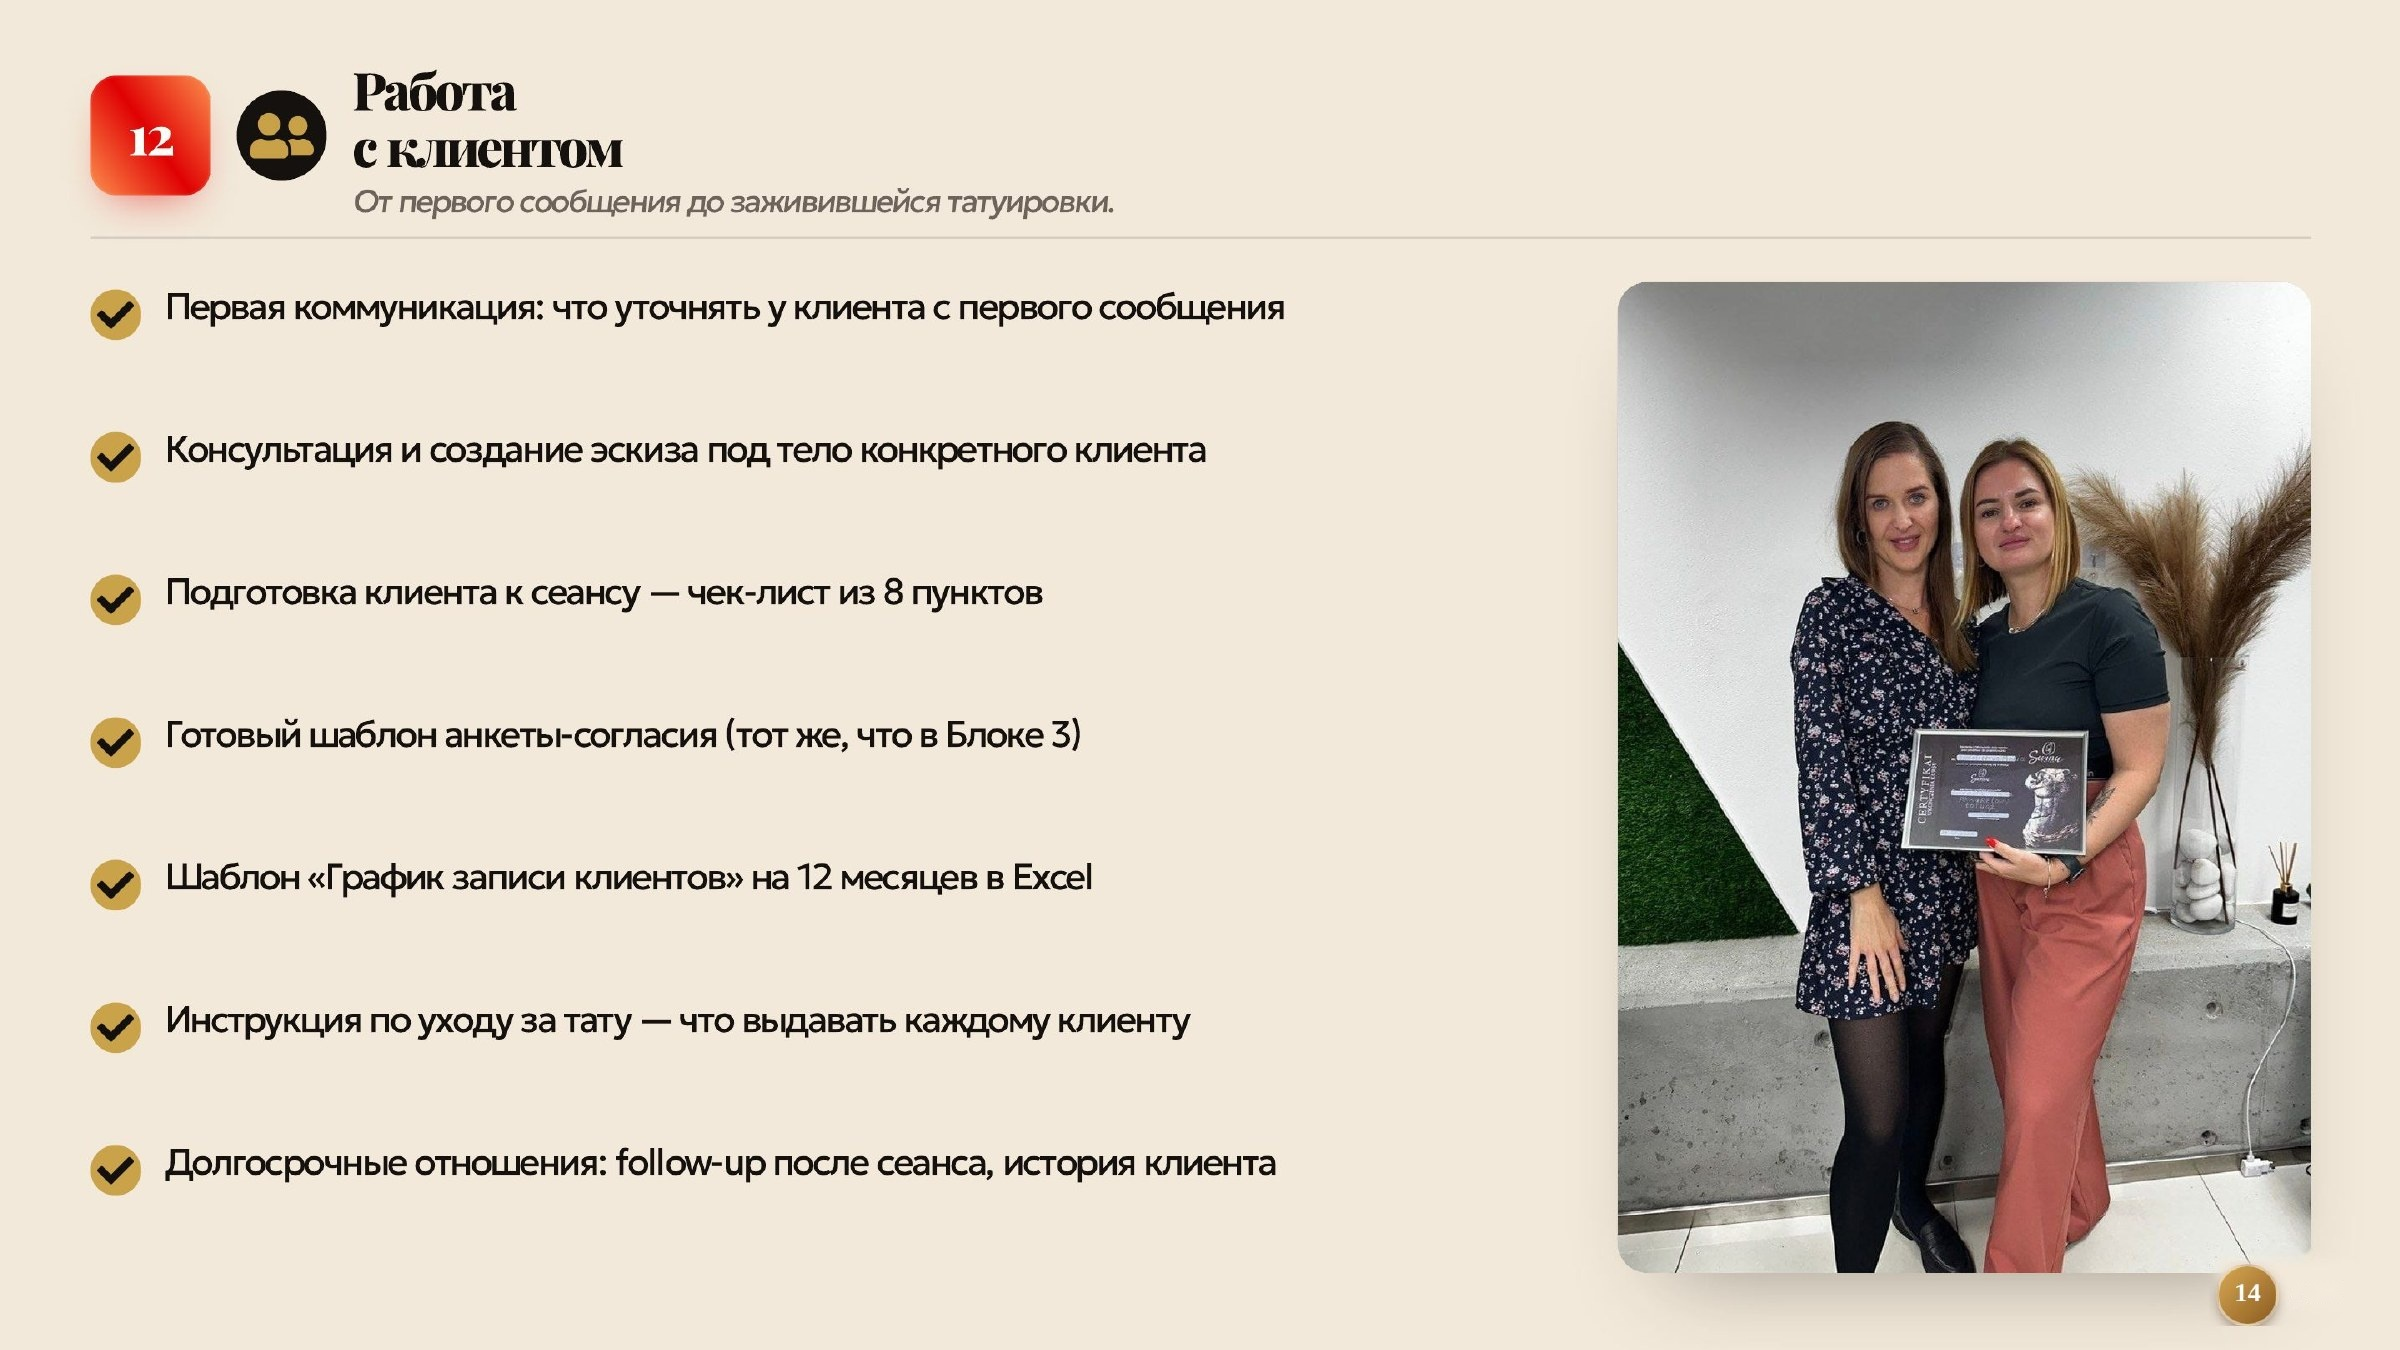
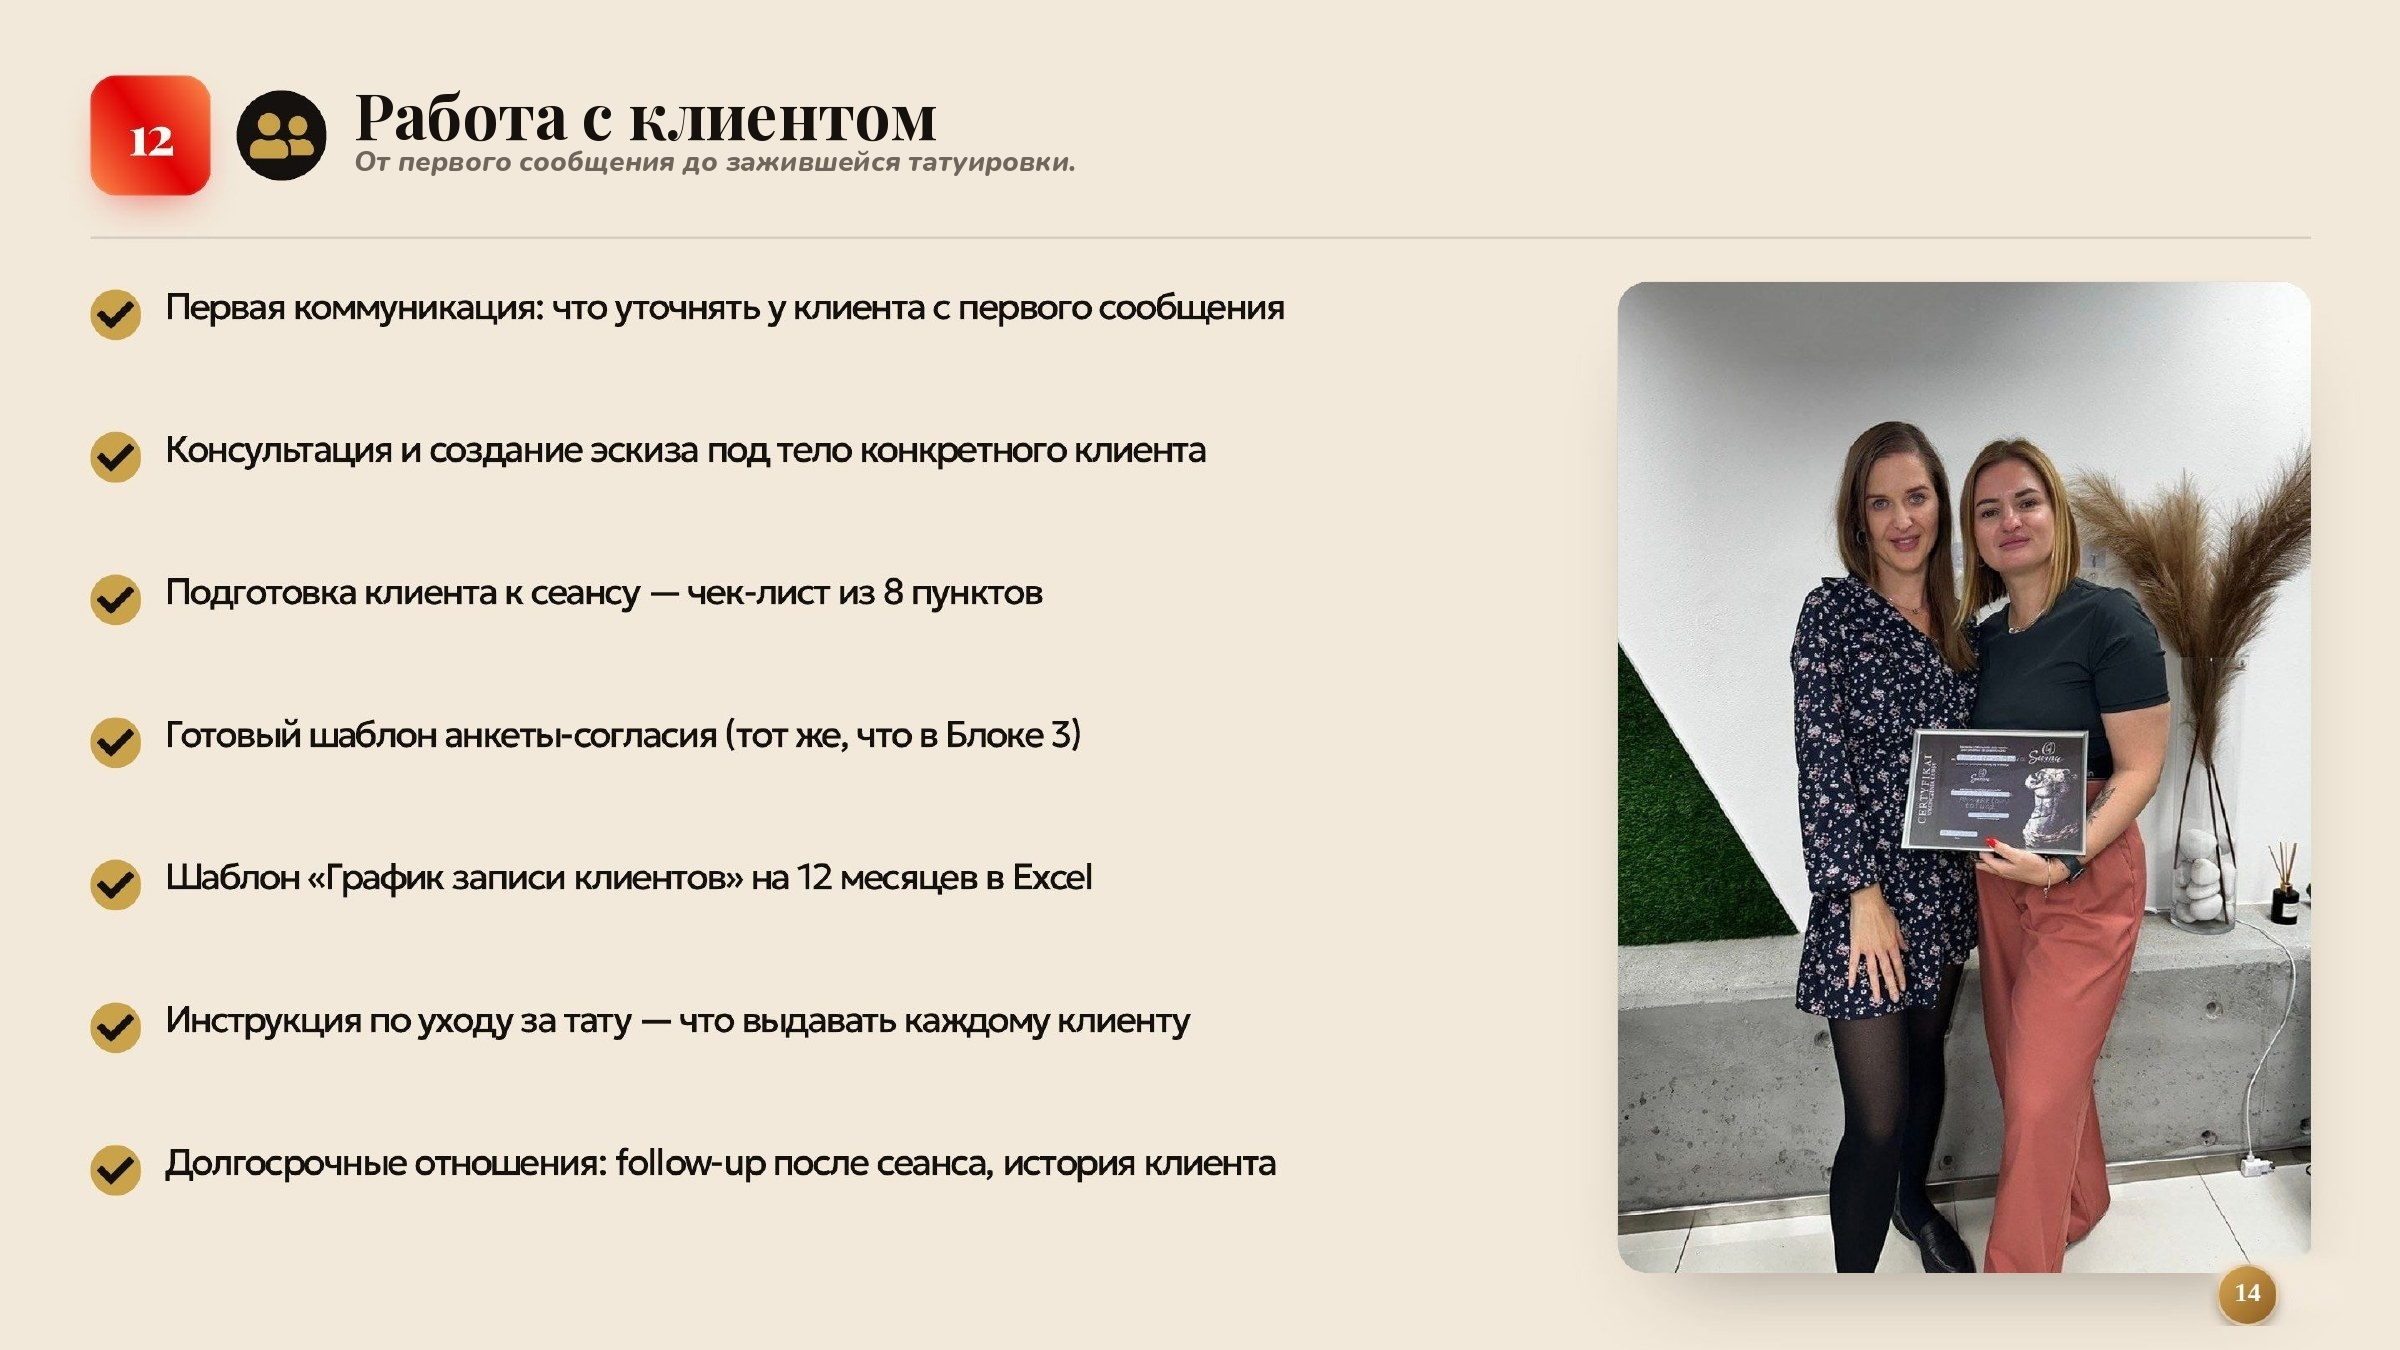
Fix wrapped card headings to render on a single line
Slides 4, 8, 13, 15, and 16 had baked-in headings that wrapped onto a
second line even though ample horizontal space remained on the row
(e.g. "VIP tattoo school" / "Вступление", "Организация" / "+ рабочее
место"). Re-rendered each heading as a single line at the deck's
standard heading size/color/position, matching every other slide, and
repositioned the subtitle directly beneath it to match the standard
single-line card rhythm.

Claude-Session: https://claude.ai/code/session_01CnfRud7UFKfhrBcKWTmy69

Changed region(s): [[0.125, 0.0622, 0.4688, 0.1556]]

diff --git a/docs/index.html b/docs/index.html
@@ -226,19 +226,19 @@
     <div class="ov ov-s3-quote">«Ты никогда не остаёшься один на один с вопросами — я на связи весь путь»</div>
     <div class="ov ov-badge" style="top:90.75%;"><span class="num">3</span><span class="den">/23</span></div>
   </div>
-  <div class="slide-wrap"><img class="slide-img" src="assets/slides/slide-04.jpg?v=2" alt="Слайд 4 — блок 1: вступление"><div class="ov ov-badge on-light"><span class="num">4</span><span class="den">/23</span></div></div>
+  <div class="slide-wrap"><img class="slide-img" src="assets/slides/slide-04.jpg?v=3" alt="Слайд 4 — блок 1: вступление"><div class="ov ov-badge on-light"><span class="num">4</span><span class="den">/23</span></div></div>
   <div class="slide-wrap"><img class="slide-img" src="assets/slides/slide-05.jpg?v=2" alt="Слайд 5 — блок 2: AI-assistant"><div class="ov ov-badge on-light"><span class="num">5</span><span class="den">/23</span></div></div>
   <div class="slide-wrap"><img class="slide-img" src="assets/slides/slide-06.jpg?v=2" alt="Слайд 6 — блок 3: безопасность"><div class="ov ov-badge on-light"><span class="num">6</span><span class="den">/23</span></div></div>
   <div class="slide-wrap"><img class="slide-img" src="assets/slides/slide-07.jpg?v=2" alt="Слайд 7 — блок 4: материалы"><div class="ov ov-badge on-light"><span class="num">7</span><span class="den">/23</span></div></div>
-  <div class="slide-wrap"><img class="slide-img" src="assets/slides/slide-08.jpg?v=2" alt="Слайд 8 — блок 5: организация и рабочее место"><div class="ov ov-badge on-light"><span class="num">8</span><span class="den">/23</span></div></div>
+  <div class="slide-wrap"><img class="slide-img" src="assets/slides/slide-08.jpg?v=3" alt="Слайд 8 — блок 5: организация и рабочее место"><div class="ov ov-badge on-light"><span class="num">8</span><span class="den">/23</span></div></div>
   <div class="slide-wrap"><img class="slide-img" src="assets/slides/slide-09.jpg?v=2" alt="Слайд 9 — блок 6: практика"><div class="ov ov-badge on-light"><span class="num">9</span><span class="den">/23</span></div></div>
   <div class="slide-wrap"><img class="slide-img" src="assets/slides/slide-10.jpg?v=2" alt="Слайд 10 — блок 7: работа с кожей"><div class="ov ov-badge on-light"><span class="num">10</span><span class="den">/23</span></div></div>
   <div class="slide-wrap"><img class="slide-img" src="assets/slides/slide-11.jpg?v=2" alt="Слайд 11 — блок 8: трафареты"><div class="ov ov-badge on-light"><span class="num">11</span><span class="den">/23</span></div></div>
   <div class="slide-wrap"><img class="slide-img" src="assets/slides/slide-12.jpg?v=2" alt="Слайд 12 — блок 9: Pro Stories"><div class="ov ov-badge on-light"><span class="num">12</span><span class="den">/23</span></div></div>
-  <div class="slide-wrap"><img class="slide-img" src="assets/slides/slide-13.jpg?v=2" alt="Слайд 13 — блок 10: 30-дневный практикум"><div class="ov ov-badge on-light"><span class="num">13</span><span class="den">/23</span></div></div>
+  <div class="slide-wrap"><img class="slide-img" src="assets/slides/slide-13.jpg?v=3" alt="Слайд 13 — блок 10: 30-дневный практикум"><div class="ov ov-badge on-light"><span class="num">13</span><span class="den">/23</span></div></div>
   <div class="slide-wrap"><img class="slide-img" src="assets/slides/slide-14.jpg?v=2" alt="Слайд 14 — блок 11: стили"><div class="ov ov-badge on-light"><span class="num">14</span><span class="den">/23</span></div></div>
-  <div class="slide-wrap"><img class="slide-img" src="assets/slides/slide-15.jpg?v=2" alt="Слайд 15 — блок 12: работа с клиентом"><div class="ov ov-badge on-light"><span class="num">15</span><span class="den">/23</span></div></div>
-  <div class="slide-wrap"><img class="slide-img" src="assets/slides/slide-16.jpg?v=2" alt="Слайд 16 — блок 13: реклама"><div class="ov ov-badge on-light"><span class="num">16</span><span class="den">/23</span></div></div>
+  <div class="slide-wrap"><img class="slide-img" src="assets/slides/slide-15.jpg?v=3" alt="Слайд 15 — блок 12: работа с клиентом"><div class="ov ov-badge on-light"><span class="num">15</span><span class="den">/23</span></div></div>
+  <div class="slide-wrap"><img class="slide-img" src="assets/slides/slide-16.jpg?v=3" alt="Слайд 16 — блок 13: реклама"><div class="ov ov-badge on-light"><span class="num">16</span><span class="den">/23</span></div></div>
   <div class="slide-wrap"><img class="slide-img" src="assets/slides/slide-17.jpg?v=2" alt="Слайд 17 — блок 14: Zoom-Tattoo"><div class="ov ov-badge on-light"><span class="num">17</span><span class="den">/23</span></div></div>
   <div class="slide-wrap"><img class="slide-img" src="assets/slides/slide-18.jpg?v=2" alt="Слайд 18 — блок 15: именной диплом"><div class="ov ov-badge on-light"><span class="num">18</span><span class="den">/23</span></div></div>
   <div class="slide-wrap"><img class="slide-img" src="assets/slides/slide-19.jpg?v=3" alt="Слайд 19 — результат обучения"><div class="ov ov-badge on-light" style="left:91.29%;"><span class="num">19</span><span class="den">/23</span></div></div>
